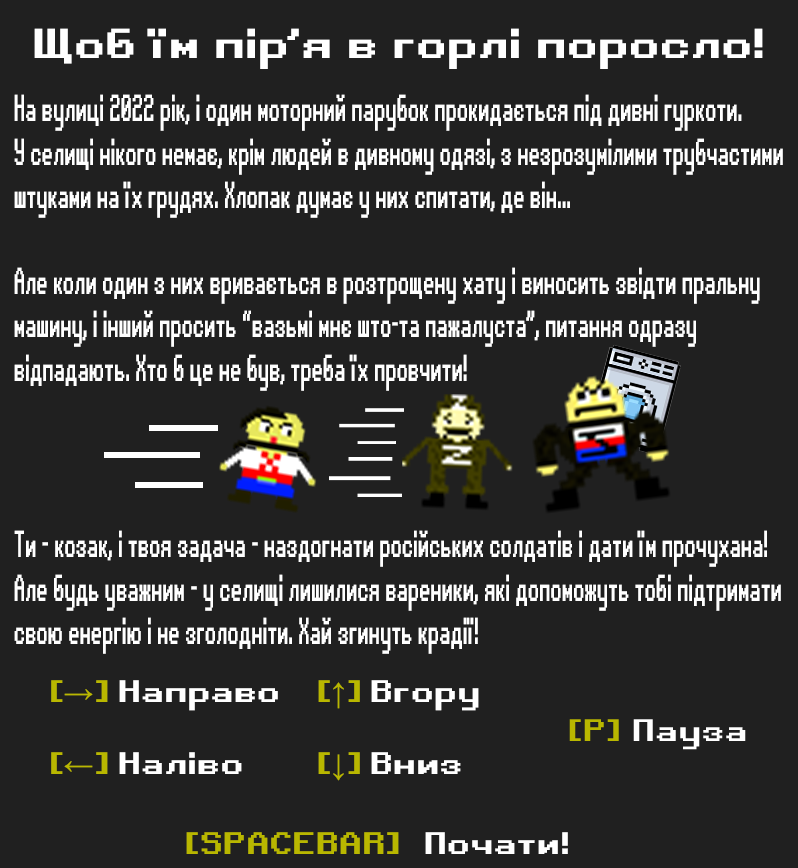
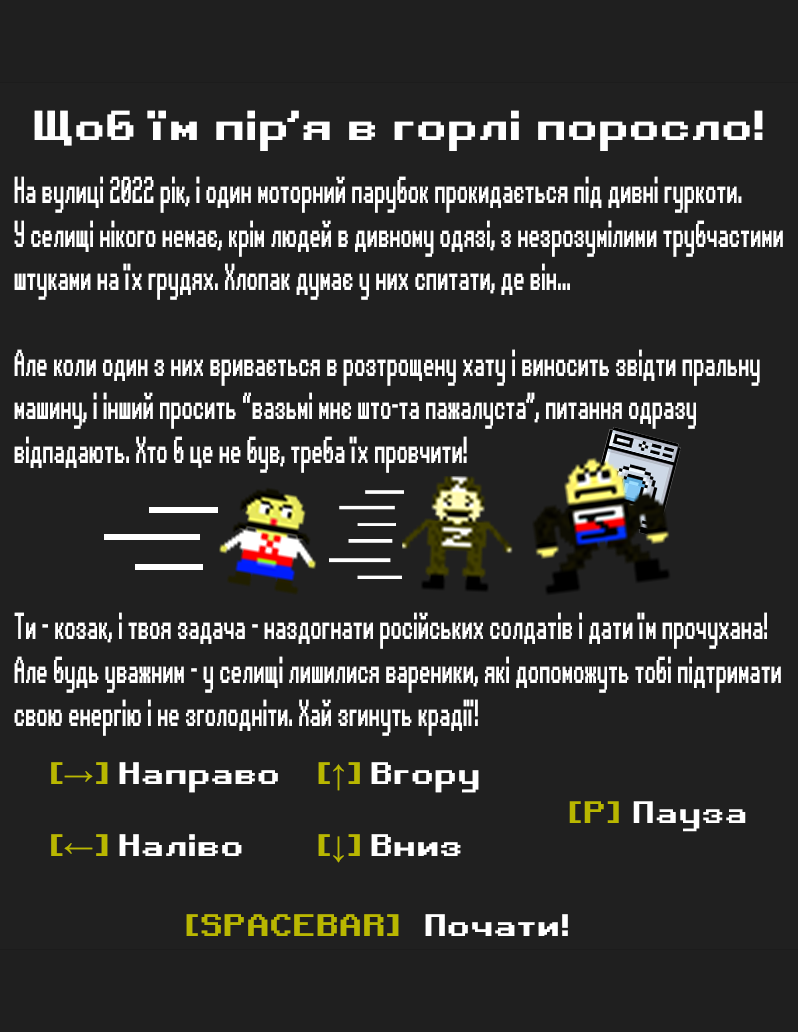
Implement menus & reset function

Changed region(s): [[0.0, 0.0311, 0.9925, 0.8399], [0.1203, 0.7776, 0.9323, 0.9954], [0.0602, 0.871, 0.0902, 0.9021]]

diff --git a/src/Gameboard.java b/src/Gameboard.java
@@ -25,6 +25,27 @@ public class Gameboard extends JPanel implements KeyListener, ActionListener {
     JLabel scoreShowcase;
     JLabel timeShowcase = new JLabel();
 
+    BufferedImage pause;
+    final BufferedImage intro;
+    {
+        try {
+            pause = ImageIO.read(new File("src/images/pause.png"));
+        } catch (IOException e) {
+            throw new RuntimeException(e);
+        }
+    }
+    {
+        try {
+            intro = ImageIO.read(new File("src/images/intro.png"));
+        } catch (IOException e) {
+            throw new RuntimeException(e);
+        }
+    }
+
+    JLabel pauseScreen = new JLabel(new ImageIcon(pause));
+
+    JLabel introScreen = new JLabel(new ImageIcon(intro));
+
     int countdown;
     private final Point pacmanDefaultSpawn = new Point(PacmanGame.GAME_WIDTH / 2 - 16, PacmanGame.SCOREBAR_HEIGHT + 12 * PacmanGame.SQUARE_SIZE);
     private final Point ghost1DefaultSpawn = new Point(PacmanGame.SQUARE_SIZE, PacmanGame.SCOREBAR_HEIGHT + PacmanGame.SQUARE_SIZE);
@@ -64,7 +85,6 @@ public class Gameboard extends JPanel implements KeyListener, ActionListener {
     });
 
     private void loss() {
-        lose=true;
         PacmanGame.gamefield.getContentPane().removeAll();
         final BufferedImage loseScreen;
         try {
@@ -83,7 +103,7 @@ public class Gameboard extends JPanel implements KeyListener, ActionListener {
         PacmanGame.gamefield.repaint();
         PacmanGame.gamefield.revalidate();
 
-        if(lose) {
+
             PacmanGame.gamefield.addKeyListener(new KeyListener() {
                 @Override
                 public void keyTyped(KeyEvent e) {
@@ -99,17 +119,14 @@ public class Gameboard extends JPanel implements KeyListener, ActionListener {
                         System.exit(0);
                     }
                     if (e.getKeyCode() == KeyEvent.VK_ENTER) {
-                        lose=false;
                         reset();
                     }
                 }
             });
-        }
         PacmanGame.gamefield.requestFocusInWindow();
     }
 
     private void victory() {
-        win=true;
         PacmanGame.gamefield.getContentPane().removeAll();
         final BufferedImage winScreen;
         try {
@@ -138,15 +155,11 @@ public class Gameboard extends JPanel implements KeyListener, ActionListener {
 
                 @Override
                 public void keyReleased(KeyEvent e) {
-                    if(win) {
-                        if (e.getKeyCode() == KeyEvent.VK_ESCAPE) {
-                            System.exit(0);
-
-                        }
-                        if (e.getKeyCode() == KeyEvent.VK_ENTER) {
-                            win = false;
-                            reset();
-                        }
+                    if (e.getKeyCode() == KeyEvent.VK_ESCAPE) {
+                        System.exit(0);
+                    }
+                    if (e.getKeyCode() == KeyEvent.VK_ENTER) {
+                        reset();
                     }
                 }
             });
@@ -154,13 +167,19 @@ public class Gameboard extends JPanel implements KeyListener, ActionListener {
     }
 
     public void reset() {
+        tm.stop();
+        gameReset=true;
         PacmanGame.gamefield.getContentPane().removeAll();
-        PacmanGame.gamefield.removeKeyListener(this);
-        PacmanGame.gamefield.add(new Gameboard(PacmanGame.WINDOW_WIDTH, PacmanGame.WINDOW_HEIGHT));
-        pacman.livesLeft=3;
-        timer=100;
+        //PacmanGame.gamefield.removeKeyListener(this);
+        PacmanGame.board = new Gameboard(PacmanGame.WINDOW_WIDTH, PacmanGame.WINDOW_HEIGHT);
+        PacmanGame.gamefield.add(PacmanGame.board);
+        pacman.livesLeft=PacmanGame.PACMAN_LIVES;
+        timer=DEFAULT_TIMER;
         dumplingsEaten=0;
+        PacmanGame.gamefield.revalidate();
         PacmanGame.gamefield.repaint();
+        PacmanGame.board.revalidate();
+        PacmanGame.board.requestFocusInWindow();
     }
 
     int pacmanSpeed = 6;
@@ -168,8 +187,6 @@ public class Gameboard extends JPanel implements KeyListener, ActionListener {
 
     Character pacman = new Character(PacmanGame.PACMAN_LIVES, pacmanSpeed, new ImageIcon("src/images/cossack1.png"), pacmanDefaultSpawn, new ImageIcon("src/images/cossack1.png").getImage().getWidth(this), new ImageIcon("src/images/cossack1.png").getImage().getHeight(this));
     //X selects String (vertical movement), Y selects char (horizontal movement)
-
-    Rectangle wall;
 
     ArrayList<Character> characters;
 
@@ -224,15 +241,24 @@ public class Gameboard extends JPanel implements KeyListener, ActionListener {
     }
 
     boolean levelWon = true;
-    boolean death, win, lose;
+    boolean death;
+    static boolean gameReset=false;
+
+    boolean started=false;
 
     private void doDrawing(Graphics g) {
+
+        if(!started) {
+            PacmanGame.board.add(introScreen, BorderLayout.NORTH);
+            PacmanGame.board.revalidate();
+            PacmanGame.board.repaint();
+        }
 
         if (levelWon) {
             setUpLevel();
         }
         Graphics2D g2d = (Graphics2D) g;
-        g2d.drawImage(bg.getImage(), 0, 0, this);
+        g2d.drawImage(bg, 0, 0, this);
 
         printMaze(g2d);
         drawHunger(g2d);
@@ -251,7 +277,19 @@ public class Gameboard extends JPanel implements KeyListener, ActionListener {
 
     }
 
-    ImageIcon bg = new ImageIcon("src/images/gamemap.png");
+//    ImageIcon bg = new ImageIcon("src/images/gamemap.png");
+
+    BufferedImage bg;
+
+    {
+        try {
+            bg = ImageIO.read(new File("src/images/gamemap.png"));
+        } catch (IOException e) {
+            throw new RuntimeException(e);
+        }
+    }
+
+
     ImageIcon heartIcon = new ImageIcon("src/images/cossackHeartFull.png");
     ImageIcon brokenHeartIcon = new ImageIcon("src/images/cossackHeartEmpty.png");
 
@@ -342,11 +380,19 @@ public class Gameboard extends JPanel implements KeyListener, ActionListener {
     public void keyTyped(KeyEvent e) {
     }
 
+    boolean paused=false;
+
     @Override
     public void keyPressed(KeyEvent e) {
         if (e.getKeyCode() == KeyEvent.VK_P) {
-            if (tm.isRunning())
+            if (tm.isRunning()) {
+                PacmanGame.board.setLayout(new BorderLayout());
+                PacmanGame.board.add(pauseScreen, BorderLayout.CENTER);
+                PacmanGame.board.revalidate();
+                PacmanGame.board.repaint();
                 tm.stop();
+                paused=true;
+            }
         }
         if (e.getKeyCode() == KeyEvent.VK_UP) {
             if (pacman.getCurrentMovement() != Character.Movement.UP) {
@@ -386,6 +432,14 @@ public class Gameboard extends JPanel implements KeyListener, ActionListener {
     public void keyReleased(KeyEvent e) {
         if (e.getKeyCode() == KeyEvent.VK_SPACE) {
             tm.start();
+            if(paused) {
+                PacmanGame.board.remove(pauseScreen);
+                paused=false;
+            }
+            if(!started) {
+                PacmanGame.board.remove(introScreen);
+                started=true;
+            }
         }
     }
 
@@ -425,7 +479,7 @@ public class Gameboard extends JPanel implements KeyListener, ActionListener {
 
     private void enemyEaten(Character toDelete) {
         if(toDelete.death() == 0) {
-            ArrayList<Character> newCharacters = new ArrayList<Character>();
+            ArrayList<Character> newCharacters = new ArrayList<>();
 
             for (Character c : characters) {
                 if (c != toDelete)

diff --git a/src/PacmanGame.java b/src/PacmanGame.java
@@ -4,6 +4,8 @@ import javax.swing.*;
 import java.awt.*;
 import java.awt.event.ActionEvent;
 import java.awt.event.ActionListener;
+import java.awt.event.KeyEvent;
+import java.awt.event.KeyListener;
 import java.awt.image.BufferedImage;
 import java.io.File;
 import java.io.IOException;
@@ -57,7 +59,7 @@ public class PacmanGame {
     static JFrame gamefield;
 
     static JPanel menu;
-    static JLabel introText = new JLabel("Press ENTER to begin");
+    static JLabel introText = new JLabel("Press SPACE to begin");
 
     static Gameboard board = new Gameboard(WINDOW_WIDTH, WINDOW_HEIGHT);
 
@@ -67,35 +69,54 @@ public class PacmanGame {
         inspectLevelDataError();
         gamefield = new JFrame("Cossack-Man");
         gamefield.setDefaultCloseOperation(WindowConstants.EXIT_ON_CLOSE);
-        introText.setFont(new Font("Monospaced", Font.BOLD, 24));
-        introText.setForeground(Color.WHITE);
-        introText.setHorizontalAlignment(SwingConstants.CENTER);
-        introText.setVerticalAlignment(SwingConstants.CENTER);
         gamefield.setSize(798, 1032);
-        final BufferedImage mainMenu;
-        try {
-            mainMenu = ImageIO.read(new File("src/images/title.png"));
-        } catch (IOException ex) {
-            throw new RuntimeException(ex);
-        }
-        menu = new JPanel(new BorderLayout()) {
-            @Override
-            protected void paintComponent(Graphics g) {
-                super.paintComponent(g);
-                g.drawImage(mainMenu, 0, 0, null);
-            }
-        };
-        menu.add(introText, BorderLayout.CENTER);
-//        gamefield.add(menu);
-        gamefield.add(board);
         gamefield.setVisible(true);
         gamefield.setResizable(false);
         gamefield.setLocationRelativeTo(null);
         gamefield.setIconImage(windowIcon.getImage());
-        gamefield.repaint();
-//        JRootPane rootPane = gamefield.getRootPane();
-//        rootPane.getInputMap(JComponent.WHEN_IN_FOCUSED_WINDOW).put(KeyStroke.getKeyStroke("ENTER"), "start");
-//        rootPane.getActionMap().put("start", start);
+        introText.setFont(new Font("Monospaced", Font.BOLD, 24));
+        introText.setForeground(Color.WHITE);
+        introText.setHorizontalAlignment(SwingConstants.CENTER);
+        introText.setVerticalAlignment(SwingConstants.CENTER);
+
+        if(!Gameboard.gameReset) {
+            final BufferedImage mainMenu;
+            try {
+                mainMenu = ImageIO.read(new File("src/images/title.png"));
+            } catch (IOException ex) {
+                throw new RuntimeException(ex);
+            }
+            menu = new JPanel(new BorderLayout()) {
+                @Override
+                protected void paintComponent(Graphics g) {
+                    super.paintComponent(g);
+                    g.drawImage(mainMenu, 0, 0, null);
+                }
+            };
+            menu.add(introText, BorderLayout.CENTER);
+            gamefield.add(menu);
+            gamefield.revalidate();
+            gamefield.repaint();
+            gamefield.addKeyListener(new KeyListener() {
+                @Override
+                public void keyTyped(KeyEvent e) {
+                }
+
+                @Override
+                public void keyPressed(KeyEvent e) {
+                }
+
+                @Override
+                public void keyReleased(KeyEvent e) {
+                    if(e.getKeyCode() == KeyEvent.VK_SPACE) {
+                        gamefield.remove(menu);
+                        gamefield.add(board);
+                        gamefield.repaint();
+                        board.requestFocusInWindow();
+                    }
+                }
+            });
+        }
     }
 
    public static void updateDots(){
